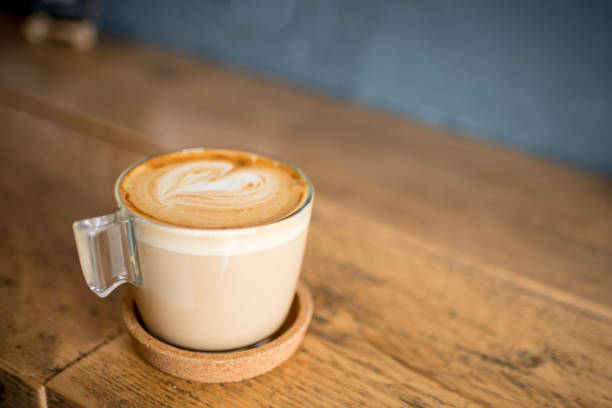
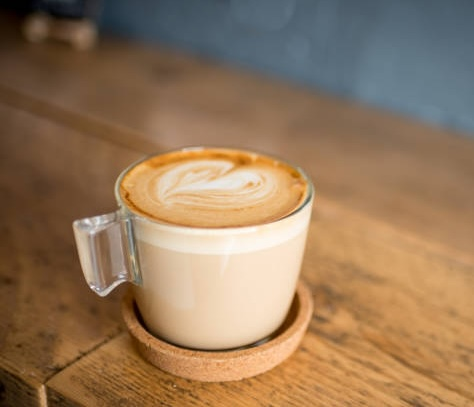
fixed image in outstory

diff --git a/app/ourstory/page.tsx b/app/ourstory/page.tsx
@@ -2,9 +2,9 @@ import Image from 'next/image';
 
 const OurStoryPage = () => {
   return (
-    <div className='mb-10'>
-      <div className='flex justify-center align-middle mt-10 '>
-        <div className='flex flex-col w-1/4 my-auto'>
+    <div className='mb-10 md:w-4/5 md:m-auto'>
+      <div className='flex justify-center align-middle mt-10 flex-col md:flex-row md:w- '>
+        <div className='flex flex-col w-full my-auto'>
           <div className='text-3xl tracking-widest p-2 font-bold'>
             OUR BEGINNING
           </div>
@@ -28,38 +28,46 @@ const OurStoryPage = () => {
             </p>
           </div>
         </div>
-        <div className='w-1/4 h-[450px] my-auto relative'>
+        <div className='w-full h-[400px] my-auto relative overflow-hidden'>
           <Image
             src={'/nyc.jpg'}
             alt='picture of new york city'
-            fill={true}
+            fill
+            sizes='(min-width: 780px) 40vw, 100vw'
             quality={100}
+            className='object-cover hover:opacity-75'
           />
         </div>
       </div>
-      <div className=''>
+      <div>
         <div className='flex justify-center align-middle'>
-          <div className='w-2/4 h-[400px] relative'>
+          <div className='w-full min-h-[500px] max-h-[600px] relative'>
             <Image
               src={'/brewing-coffee2.jpg'}
               alt='brewing'
-              fill={true}
+              fill
+              sizes='(min-width: 780px) 80vw, 100vw'
+              objectFit='cover'
               priority
               quality={100}
+              className='hover:opacity-75'
             />
           </div>
         </div>
         <div className='flex flex-col'>
           <div className='flex justify-center align-middle'>
-            <div className='w-1/4 h-[400px] relative '>
+            <div className='w-1/2 min-h-[500px] max-h-[600px] relative '>
               <Image
                 src={'/coffee-pic-copy.jpg'}
                 alt='coffee picture'
-                fill={true}
+                fill
+                sizes='(min-width: 780px) 40vw, 50vw'
+                objectFit='cover'
                 quality={100}
+                className='hover:opacity-75'
               />
             </div>
-            <div className='w-1/4 p-2 my-auto text-lg'>
+            <div className='w-1/2 p-2 my-auto text-lg'>
               The cafe`&apos;`s name, Golden Coffee, was chosen to reflect the
               warmth and richness of both the beverage and the inviting
               atmosphere they aimed to cultivate. The duo meticulously curated a
@@ -74,12 +82,20 @@ const OurStoryPage = () => {
       </div>
       <div>
         <div className='flex w-full justify-center'>
-          <div className='h-[400px] w-2/4 relative'>
-            <Image src={'/warm-cafe.jpg'} alt='warm cafe picture' fill={true} />
+          <div className='min-h-[500px] w-full relative'>
+            <Image
+              src={'/warm-cafe.jpg'}
+              alt='warm cafe picture'
+              fill
+              sizes='(min-width: 780px) 80vw, 100vw'
+              objectFit='cover'
+              quality={100}
+              className='hover:opacity-75'
+            />
           </div>
         </div>
         <div className='flex w-full justify-center'>
-          <div className='flex w-2/4 flex-col text-center'>
+          <div className='flex w-full flex-col text-center'>
             The interior of Golden Coffee House was a blend of modern elegance
             and rustic charm. Warm wooden tones, comfortable seating, and soft
             lighting created an inviting ambiance. The walls adorned with local
@@ -99,11 +115,15 @@ const OurStoryPage = () => {
               golden oasis where every cup told a story, and every sip was a
               moment of pure bliss.
             </p>
-            <div className='m-auto w-2/4 h-[300px] relative'>
+            <div className='m-auto w-3/4 min-h-[500px] relative'>
               <Image
                 src={'/happy-person-story.jpg'}
                 alt='person smiling'
-                fill={true}
+                fill
+                sizes='(min-width: 780px) 60vw, 75vw'
+                objectFit='cover'
+                quality={100}
+                className='hover:opacity-75'
               />
             </div>
           </div>

diff --git a/app/components/coffeeBox.tsx b/app/components/coffeeBox.tsx
@@ -27,13 +27,14 @@ const CoffeeBox = ({
   );
   return (
     <div className='mb-10 text-center'>
-      <div className='flex justify-center rounded-md'>
+      <div className='h-[333px] w-4/5 relative m-auto max-w-[450px] overflow-hidden'>
         <Image
-          className='rounded-md w-[450px] h-[333px] relative'
           src={`/coffee/${image}.jpg`}
           alt={`${name} picture`}
-          width={500}
-          height={400}
+          fill
+          sizes='100vw'
+          quality={100}
+          objectFit='cover'
         />
       </div>
 
